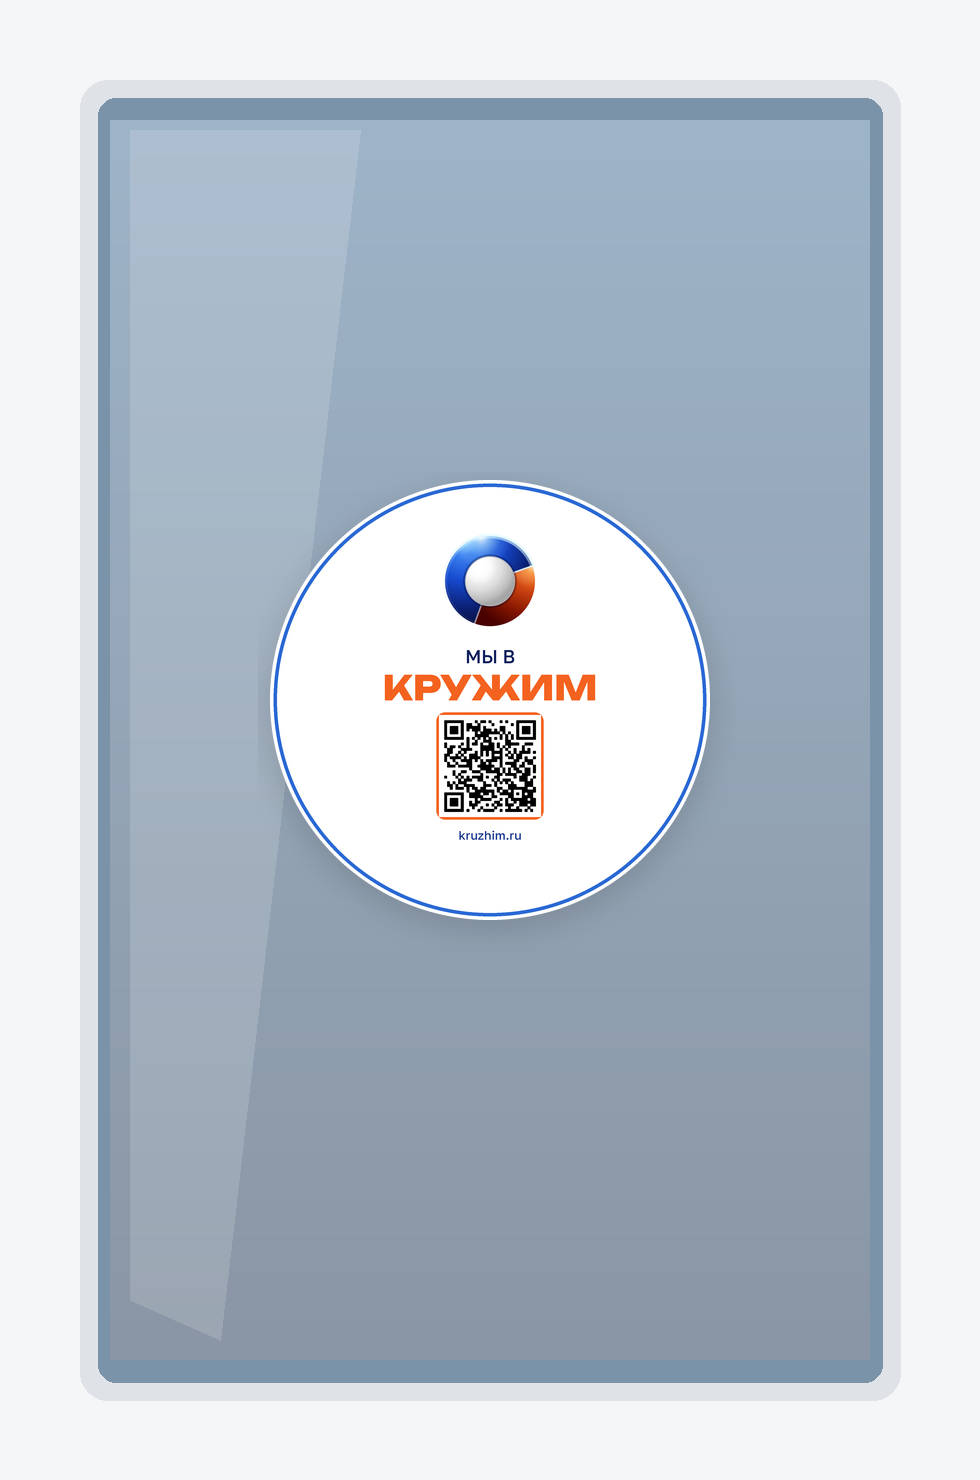
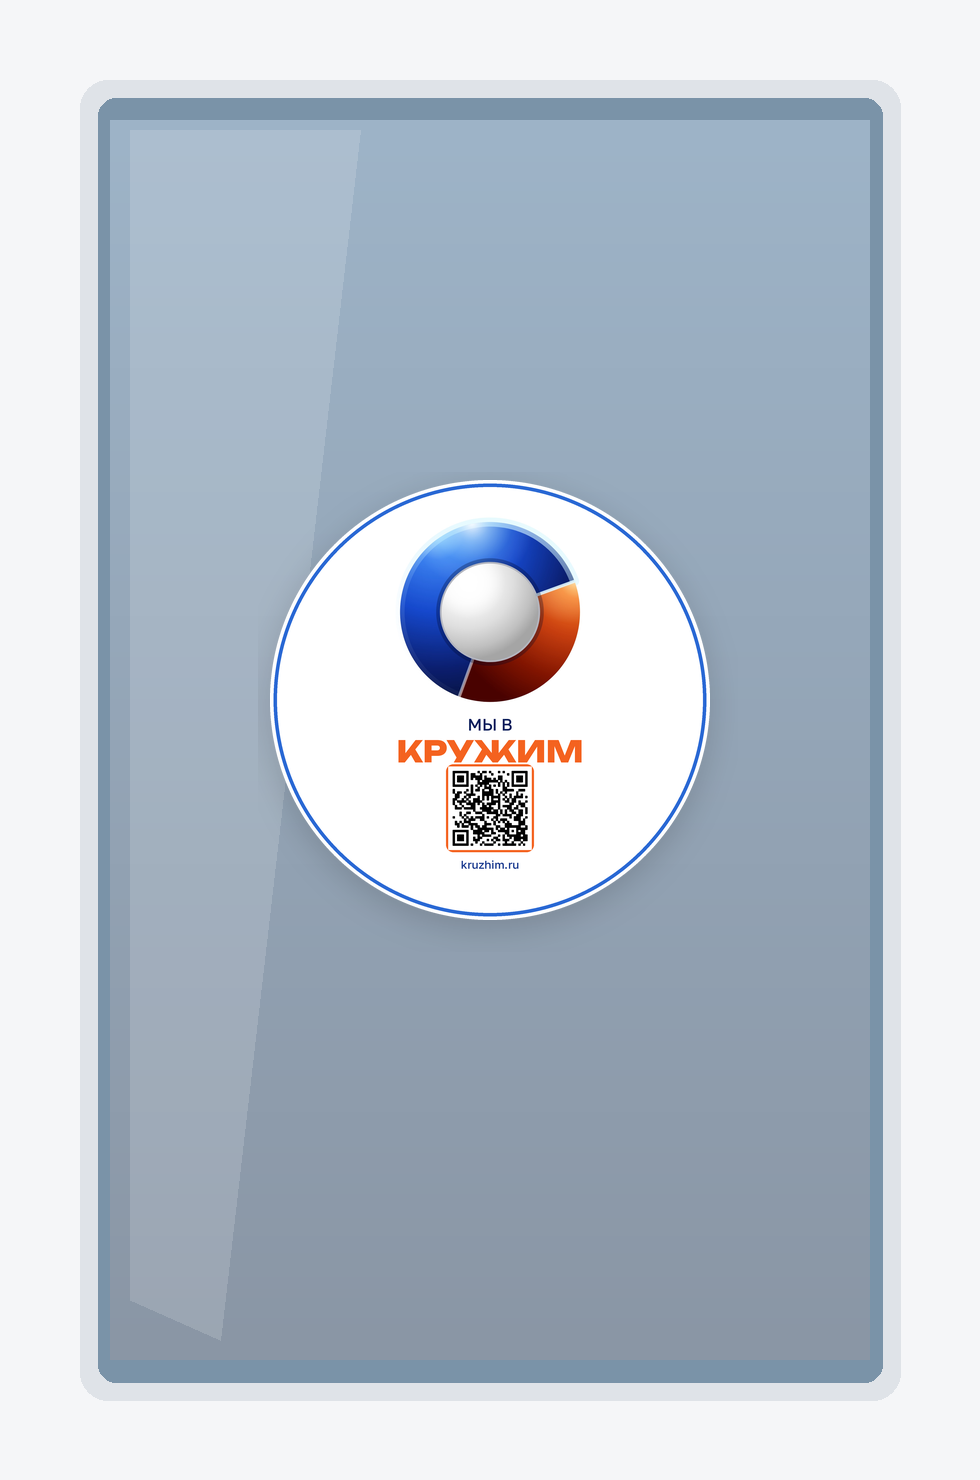
Увеличить логотип на стикере в 2 раза

Changed region(s): [[0.398, 0.3419, 0.6122, 0.5905]]

diff --git a/sticker/sticker.html b/sticker/sticker.html
@@ -72,12 +72,12 @@
   }
 
   .logo {
-    width: 22%;
+    width: 44%;
     aspect-ratio: 1;
     border-radius: 50%;
     object-fit: cover;
     flex-shrink: 0;
-    margin-bottom: 4%;
+    margin-bottom: 3%;
   }
 
   .line-we {

diff --git a/sticker/generate_sticker.py b/sticker/generate_sticker.py
@@ -92,16 +92,16 @@ def draw_sticker(size: int = SIZE, shadow: bool = True) -> Image.Image:
 
     # Layout inspired by Yandex «Хорошее место» stack:
     # mark → light label → bold title → footer mark (QR)
-    logo_size = int(size * 0.22)
+    logo_size = int(size * 0.44)  # 2× relative to previous 0.22
     logo = prep_logo(logo_size)
     logo_x = (size - logo_size) // 2
-    logo_y = int(size * 0.12)
+    logo_y = int(size * 0.08)
     sticker.alpha_composite(logo, (logo_x, logo_y))
 
     draw = ImageDraw.Draw(sticker)
-    we_font = load_font(FONT_TEXT, int(size * 0.042), 500)
-    brand_font = load_font(FONT_DISPLAY, int(size * 0.078), 800)
-    url_font = load_font(FONT_TEXT, int(size * 0.028), 500)
+    we_font = load_font(FONT_TEXT, int(size * 0.038), 500)
+    brand_font = load_font(FONT_DISPLAY, int(size * 0.068), 800)
+    url_font = load_font(FONT_TEXT, int(size * 0.026), 500)
 
     we = "МЫ В"
     brand = "КРУЖИМ"
@@ -112,22 +112,22 @@ def draw_sticker(size: int = SIZE, shadow: bool = True) -> Image.Image:
     we_w = we_bbox[2] - we_bbox[0]
     brand_w = brand_bbox[2] - brand_bbox[0]
 
-    text_top = logo_y + logo_size + int(size * 0.035)
+    text_top = logo_y + logo_size + int(size * 0.012)
     draw.text(((size - we_w) / 2, text_top), we, fill=INK, font=we_font)
 
-    brand_y = text_top + int(size * 0.048)
+    brand_y = text_top + int(size * 0.042)
     draw.text(((size - brand_w) / 2, brand_y), brand, fill=ORANGE, font=brand_font)
 
     # QR in lower third (replaces year block on Yandex stickers)
-    qr_inner = int(size * 0.22)
+    qr_inner = int(size * 0.18)
     qr = prep_qr(qr_inner)
     qr_x = (size - qr.size[0]) // 2
-    qr_y = brand_y + int(size * 0.105)
+    qr_y = brand_y + int(size * 0.072)
     sticker.alpha_composite(qr, (qr_x, qr_y))
 
     url_bbox = draw.textbbox((0, 0), url, font=url_font)
     url_w = url_bbox[2] - url_bbox[0]
-    url_y = qr_y + qr.size[1] + int(size * 0.018)
+    url_y = qr_y + qr.size[1] + int(size * 0.012)
     draw.text(((size - url_w) / 2, url_y), url, fill=BLUE_DEEP, font=url_font)
 
     if not shadow:
